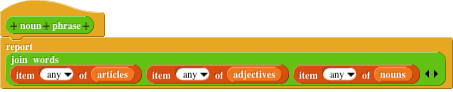
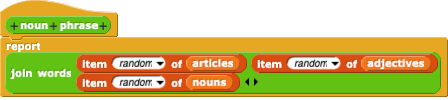
updated first half of images from 'what good are lists' in lab 5

diff --git a/cur/programming/lists/hof/what-good-are-lists.html b/cur/programming/lists/hof/what-good-are-lists.html
@@ -23,7 +23,7 @@
 </p>
 <p>List items are numbered from 1, so, for example, item 3 of the <code>nouns</code> list above is <code>pizza</code>. The first input slot accepts a number like other rounded input slots, but it also has a downward arrow that, when clicked, offers two special choices: <code>last</code> for the last item of the list, and <code>any</code> to pick an item at random.
 <p>The second input slot in the <code>item</code> block is something you haven't seen before: a rectangle with two orange smaller rectangles inside it. Just as a rounded input slot indicates that a number is expected, and a hexagonal input slot indicates that a <code>true</code> or <code>false</code> value is expected, this new kind of input slot means that a list value is expected. It's meant to look like what you see when you <b><code>say</code></b> a list: a grey (rounded) rectangle with red-orange rectangles for the individual items.
-  <p>Use the <code>item any</code> feature to make a noun phrase by choosing a random article, a random adjective, and a random noun:</p>
+  <p>Use the <code>item random</code> feature to make a noun phrase by choosing a random article, a random adjective, and a random noun:</p>
   <p><img border="0" src="/bjc-r/img/list/hof/nounphrase-block.png" alt="Noun phrase block, JOIN WORDS of an item from each of ARTICLES, ADJECTIVES, and NOUNS" title="Noun phrase block, JOIN WORDS of an item from each of ARTICLES, ADJECTIVES, and NOUNS" />
   </p>
   <p>Because of the random item choices, we get a different result each time we call <code>noun phrase</code>:</p>
